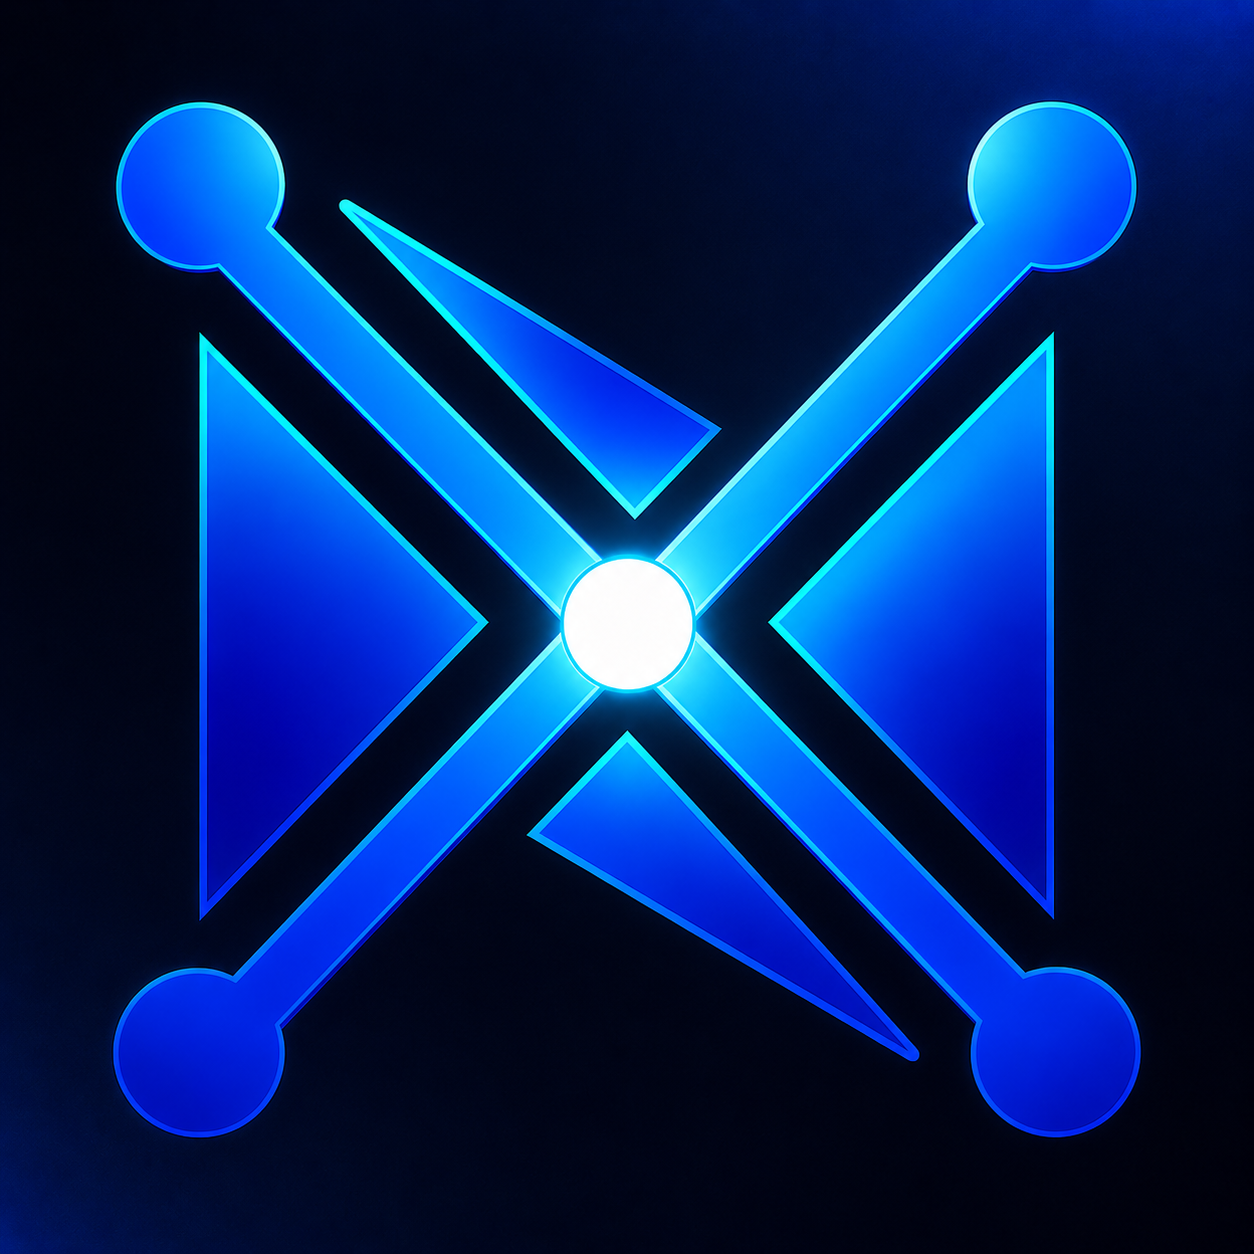
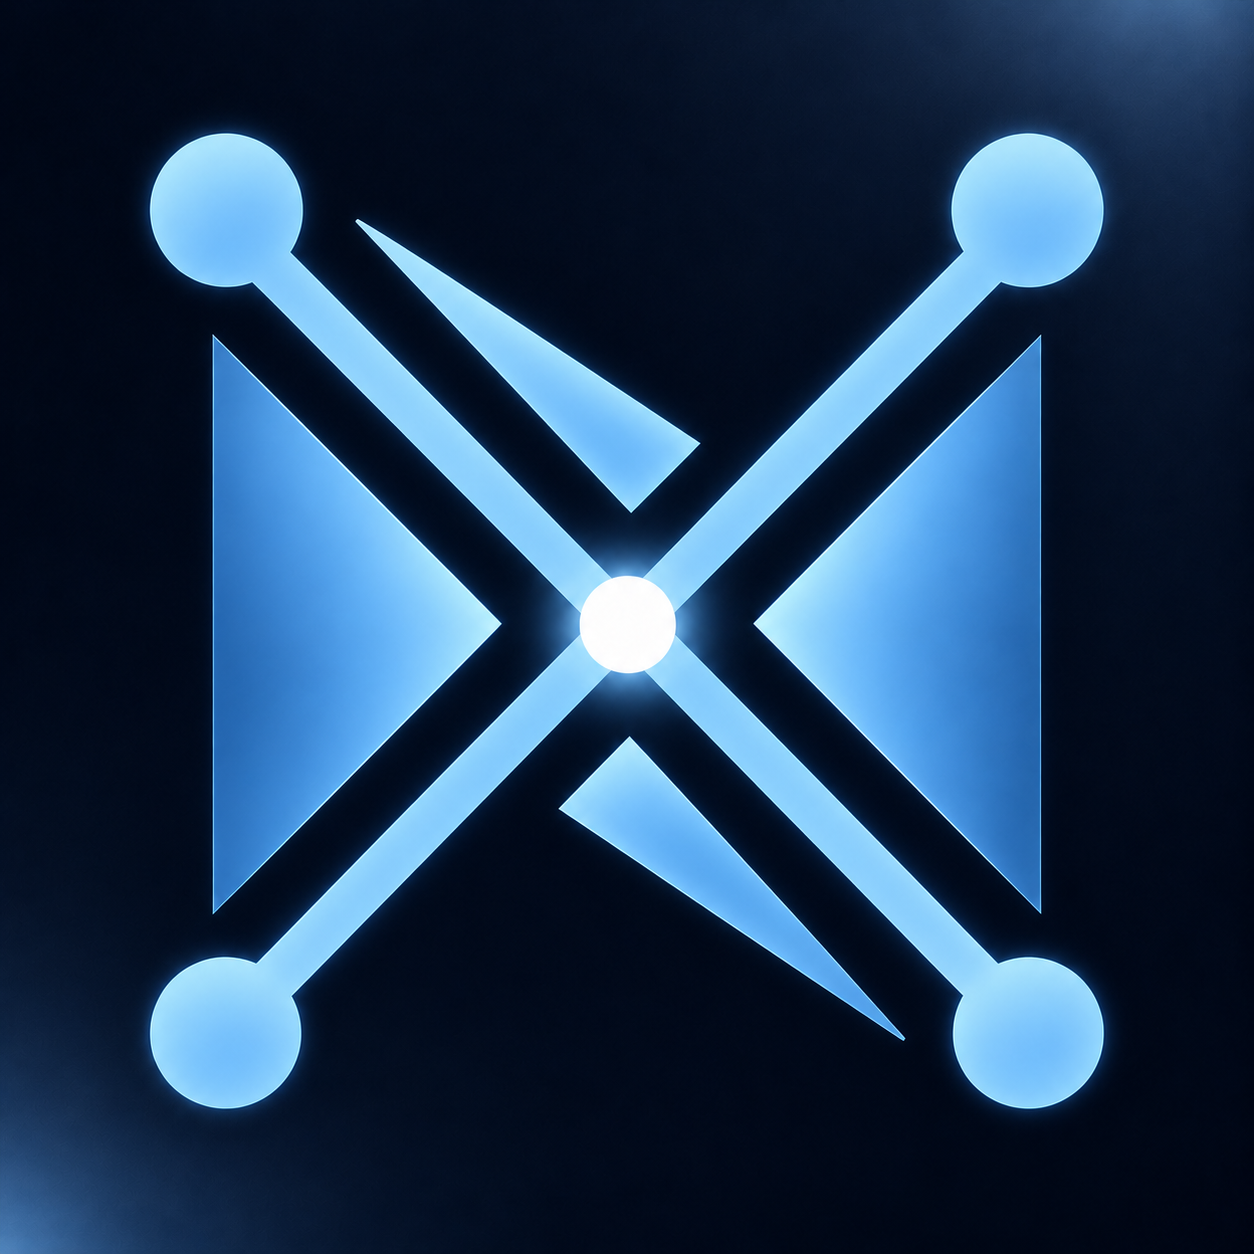
feat(portfolio): refresh overview and filters
Portfolio:
- Shorten the heading to Portfolio and highlight the six expertise domains in the introduction.
- Replace the three filter lists with one wrapping group of native buttons, selected checkmarks, pressed states, visible focus, and 44 px targets.
- Reduce the introduction-to-filter gap to 20 px and respect reduced motion during filtering.

Studio imagery:
- Copy the supplied pale-blue logo unchanged and add its content version to the image URL.
- Update the matching five-file manual upload set.

Tests:
- Static build resolves all local references.
- All nine categories pass at 320, 390, 768, and 1440 px in both themes with no overflow or browser/network errors.
- Keyboard Tab/Space/Enter, focus, reduced motion, and rapid animated switching pass.
- Selected-button text contrast is at least 5.06:1; exact source, build, and served image hashes match.

Known gaps:
- Production upload remains manual; no pipeline changes.

diff --git a/index.html b/index.html
@@ -542,7 +542,7 @@
                 <div class="col-lg-6">
                     <div class="nexusGuideCard">
                         <div class="nexus-main-header">
-                            <img src="content/portfolio/thumbnails/nexus-ai-studio.png" alt="Nexus AI Studio logo" class="nexus-main-logo">
+                            <img src="content/portfolio/thumbnails/nexus-ai-studio.png?v=55332f1243ef" alt="Nexus AI Studio logo" class="nexus-main-logo">
                             <div>
                                 <p class="nexus-eyebrow">Desktop App &middot; Local AI</p>
                                 <h3 class="nexus-product-title">Nexus AI Studio</h3>
@@ -587,32 +587,28 @@
 
             <div class="row">
 
-                <div class="heading text-center col-12 mb-5">
-                    <h2 class="section-title">DETAILED PORTFOLIO</h2>
-                    <p class="mt-3 section-intro-text">A curated collection of projects illustrating my expertise in Generative AI, Machine Learning, Data Science, Software Engineering, Computer Vision & Biomechanical Engineering.</p>
-                    <p class="mt-3 section-intro-text">Filter by domain to explore specific expertise.</p>
+                <div class="heading text-center col-12 portfolio-heading">
+                    <h2 class="section-title">PORTFOLIO</h2>
+                    <p class="mt-3 section-intro-text">A curated collection of projects illustrating my expertise in <strong>Generative AI</strong>, <strong>Machine Learning</strong>, <strong>Data Science</strong>, <strong>Software Engineering</strong>, <strong>Computer Vision</strong> &amp; <strong>Biomechanical Engineering</strong>.</p>
+                    <p class="portfolio-filter-hint">Filter by domain to explore specific expertise.</p>
                 </div>
 
-                <div class="filter col-12">
+                <div class="filter col-12" role="group" aria-label="Filter projects by expertise">
                     <ul class="filters">
-                        <li><a href="#" data-filter="*" class="current">ALL PROJECTS</a></li>
-                    </ul>
-                    <ul class="filters">
-                        <li><a href="#" data-filter=".gen-ai">GENERATIVE AI</a></li>
-                        <li><a href="#" data-filter=".dl">DEEP LEARNING</a></li>
-                        <li><a href="#" data-filter=".ml">MACHINE LEARNING</a></li>
-                        <li><a href="#" data-filter=".cv">COMPUTER VISION</a></li>
-                        <li><a href="#" data-filter=".ds">DATA SCIENCE</a></li>
-                        <li><a href="#" data-filter=".se">SOFTWARE ENGINEERING</a></li>
-                    </ul>
-                    <ul class="filters">
-                        <li><a href="#" data-filter=".bio-eng">BIOMECHANICAL ENGINEERING</a></li>
-                        <li><a href="#" data-filter=".pubs">PUBLICATIONS</a></li>
+                        <li><button type="button" data-filter="*" class="current" aria-pressed="true" aria-controls="portfolio-items">All projects</button></li>
+                        <li><button type="button" data-filter=".gen-ai" aria-pressed="false" aria-controls="portfolio-items">Generative AI</button></li>
+                        <li><button type="button" data-filter=".dl" aria-pressed="false" aria-controls="portfolio-items">Deep learning</button></li>
+                        <li><button type="button" data-filter=".ml" aria-pressed="false" aria-controls="portfolio-items">Machine learning</button></li>
+                        <li><button type="button" data-filter=".cv" aria-pressed="false" aria-controls="portfolio-items">Computer vision</button></li>
+                        <li><button type="button" data-filter=".ds" aria-pressed="false" aria-controls="portfolio-items">Data science</button></li>
+                        <li><button type="button" data-filter=".se" aria-pressed="false" aria-controls="portfolio-items">Software engineering</button></li>
+                        <li><button type="button" data-filter=".bio-eng" aria-pressed="false" aria-controls="portfolio-items">Biomechanical engineering</button></li>
+                        <li><button type="button" data-filter=".pubs" aria-pressed="false" aria-controls="portfolio-items">Publications</button></li>
                     </ul>
                 </div>
 
                 <div class="itemsContainer col-12">
-                    <ul class="items">
+                    <ul class="items" id="portfolio-items">
 
                         <!-- 2026: Nexus TV Launcher -->
                         <li class="se content-card">

diff --git a/css/style_modern.css b/css/style_modern.css
@@ -571,30 +571,6 @@ body.dark-mode .nexus-path li {
     }
 }
 /* --- Portfolio --- */
-.filter a {
-    color: var(--text-color);
-    border: 1px solid var(--text-color);
-    padding: 10px 18px;
-    display: inline-block;
-    margin: 5px;
-    text-decoration: none;
-    font-size: 12px;
-    font-weight: 600;
-    text-transform: uppercase;
-}
-
-.filter a:hover,
-.filter .current {
-    background-color: rgba(37, 116, 169, 0.14);
-    color: var(--text-color);
-    border-color: rgba(37, 116, 169, 0.55);
-}
-
-body.dark-mode .filter a {
-    color: var(--site-text-on-image);
-    border-color: var(--site-text-on-image);
-}
-
 /* Grid & Cards */
 /* Grid & Cards */
 .itemsContainer {
@@ -689,64 +665,102 @@ body.dark-mode .card-image-container {
     background: #2b2b2b;
 }
 
-/* Filters Modernization */
-.filter {
-    text-align: center;
-    margin-bottom: 40px;
+/* Portfolio filters */
+#portfolio .portfolio-heading {
+    padding-bottom: 20px;
 }
 
-#filters {
-    padding: 0;
-    list-style: none;
+#portfolio .portfolio-heading .section-intro-text strong {
+    color: var(--primary-color);
+    font-weight: 700;
+}
+
+#portfolio .portfolio-heading .portfolio-filter-hint {
+    font-size: 16px;
+    line-height: 1.5;
+    margin: 12px 0 0;
+}
+
+.filter {
+    margin-bottom: 24px;
+    text-align: center;
+}
+
+.filters {
     display: flex;
-    justify-content: center;
     flex-wrap: wrap;
-    gap: 10px;
+    gap: 8px;
+    justify-content: center;
+    list-style: none;
+    margin: 0;
+    padding: 0;
 }
 
 .filters li {
-    display: inline-block;
+    display: block;
+    margin: 0;
 }
 
-.filters a {
-    display: inline-block;
-    padding: 8px 20px;
-    border-radius: 50px;
-    text-decoration: none;
-    font-size: 13px;
-    font-weight: 600;
-    text-transform: uppercase;
-    letter-spacing: 0.5px;
-    color: var(--text-color);
+.filters button {
+    align-items: center;
+    background: var(--card-bg);
     border: 1px solid var(--hover-color);
-    transition: all 0.3s ease;
-}
-
-.filters a:hover {
-    background-color: rgba(37, 116, 169, 0.14);
+    border-radius: 8px;
     color: var(--text-color);
-    border-color: rgba(37, 116, 169, 0.55);
+    cursor: pointer;
+    display: inline-flex;
+    font-family: inherit;
+    font-size: 14px;
+    font-weight: 600;
+    gap: 8px;
+    justify-content: center;
+    letter-spacing: 0;
+    line-height: 1.4;
+    min-height: 44px;
+    padding: 10px 14px;
+    transition: background-color 0.15s ease, border-color 0.15s ease, color 0.15s ease;
 }
 
-.filters a.current {
-    background-color: rgba(37, 116, 169, 0.14);
-    color: var(--text-color);
-    border-color: rgba(37, 116, 169, 0.55);
-    box-shadow: 0 4px 6px rgba(0, 0, 0, 0.1);
+.filters button::before {
+    border: solid currentColor;
+    border-width: 0 2px 2px 0;
+    content: "";
+    height: 10px;
+    transform: rotate(45deg);
+    visibility: hidden;
+    width: 6px;
 }
 
-body.dark-mode .filters a {
-    color: var(--text-color);
-    border-color: #555;
+.filters button:hover {
+    background: var(--bg-color);
+    border-color: var(--primary-color);
 }
 
-body.dark-mode .filters a:hover,
-body.dark-mode .filters a.current {
-    background-color: rgba(45, 212, 191, 0.14);
-    border-color: rgba(45, 212, 191, 0.68);
-    color: var(--text-color);
+.filters button:focus-visible {
+    outline: 2px solid var(--primary-color);
+    outline-offset: 3px;
 }
 
+.filters button.current {
+    background: var(--primary-color);
+    border-color: var(--primary-color);
+    color: var(--site-text-on-accent);
+    font-weight: 700;
+}
+
+.filters button.current::before {
+    visibility: visible;
+}
+
+body.dark-mode .filters button.current {
+    color: var(--site-text-control-ink);
+}
+
+@media (prefers-reduced-motion: reduce) {
+    .filters button {
+        transition: none;
+    }
+}
 
 .card-overlay {
     position: absolute;

diff --git a/js/script.js b/js/script.js
@@ -23,29 +23,30 @@ $(window).on("load", function () {
     });
 
     // Simple Filtering for CSS Grid Portfolio
-    $(".filters a").click(function (e) {
-        e.preventDefault();
+    $(".filters button").click(function () {
 
-        $(".filters .current").removeClass("current");
-        $(this).addClass("current");
+        $(".filters button").removeClass("current").attr("aria-pressed", "false");
+        $(this).addClass("current").attr("aria-pressed", "true");
 
         var selector = $(this).attr("data-filter");
         var $itemsContainer = $(".items");
+        var duration = window.matchMedia("(prefers-reduced-motion: reduce)").matches ? 0 : 200;
+        $itemsContainer.children("li").stop(true, true);
 
         // Lock the height to prevent scroll jumping
         $itemsContainer.css("min-height", $itemsContainer.height());
 
         if (selector === '*') {
-            $itemsContainer.children("li").show(300);
+            $itemsContainer.children("li").show(duration);
         } else {
-            $itemsContainer.children("li").not(selector).hide(300);
-            $itemsContainer.children("li").filter(selector).show(300);
+            $itemsContainer.children("li").not(selector).hide(duration);
+            $itemsContainer.children("li").filter(selector).show(duration);
         }
 
         // Release the height lock after animation
         setTimeout(function () {
             $itemsContainer.css("min-height", "0");
-        }, 350);
+        }, duration + 50);
 
         return false;
     });

diff --git a/docs/todos.md b/docs/todos.md
@@ -2,6 +2,8 @@
 
 ## Dashboard
 
+- Portfolio overview: shortened title, highlighted domains, compact accessible filters, and 20 px filter gap verified
+- Studio logo: supplied pale-blue original copied unchanged and linked with a content-based cache version
 - Nexus product section and updated profile assets: implemented and browser verified; production publication pending
 - Nexus deployment repair: canonical section address, content-versioned browser files, and upload-file audit implemented
 - Repository root cleanup: ten obsolete files removed; all 247 deployment files verified byte-identical
@@ -83,6 +85,15 @@
 - [x] Highlight local models for text, image, video, and audio generation in the Local AI segment.
 - [x] Apply the requested expert-level agentic workflow sentence and advanced Nexus Hub skills, guardrails, and standardized workflow description.
 - [x] Verify exact descriptions, bold generation types, wrapping, text overlap, desktop button alignment, and browser integrity on desktop and phones in both themes.
+- CI impact: no pipeline changes; existing build and local browser checks.
+
+## Portfolio Controls and Studio Logo [DONE]
+
+- [x] Replace the Studio image with the supplied pale-blue original, verify exact source/build/served hashes, and version its URL to refresh cached images.
+- [x] Rename Detailed Portfolio to Portfolio and highlight all six expertise domains in the first subtitle sentence.
+- [x] Use one wrapping group of native filter buttons with the existing typography and theme colors, 8 px gaps and corners, a selected checkmark, 44 px targets, and 20 px between the hint and filters.
+- [x] Preserve all nine category mappings and verify keyboard Tab/Space/Enter, pressed state, visible focus, reduced-motion behavior, and rapid animated switching.
+- [x] Verify layouts at 320, 390, 768, and 1440 px in both themes with no overflow, page errors, or HTTP failures; selected-button text contrast is at least 5.06:1.
 - CI impact: no pipeline changes; existing build and local browser checks.
 
 ## Nexus TV Launcher Portfolio [DONE]

diff --git a/docs/guides/manual-upload.md b/docs/guides/manual-upload.md
@@ -38,9 +38,9 @@ The ten obsolete files were removed after confirming their only remaining refere
 
 The canonical section address is `https://www.benjamindourthe.com/#nexus`. Existing `#featured-projects` bookmarks are converted to `#nexus` by the home-page script. After uploading, verify the two product buttons, normal feature-list wrapping, and the Studio logo. For a browser that still shows an older page, press `Ctrl+F5` once to reload its HTML and linked files.
 
-## Nexus Upload Set
+## Current Upload Set
 
-Upload these four files from the freshly built `dist/` folder together. Their destination paths are relative to `/benjamindourthe.com/htdocs/`.
+Upload these five files from the freshly built `dist/` folder together. Their destination paths are relative to `/benjamindourthe.com/htdocs/`.
 
 | Local path under `dist/` | Hosted path |
 | --- | --- |
@@ -48,5 +48,6 @@ Upload these four files from the freshly built `dist/` folder together. Their de
 | `skills.html` | `skills.html` |
 | `css/style_modern.css` | `css/style_modern.css` |
 | `js/script.js` | `js/script.js` |
+| `content/portfolio/thumbnails/nexus-ai-studio.png` | `content/portfolio/thumbnails/nexus-ai-studio.png` |
 
 The November 19 live check still returned an older home page containing `href="#featured-projects"`, `id="featured-projects"`, and unversioned browser files, including on a fresh HTML request. The local upload page contains `href="#nexus"`, `id="nexus"`, two introduction columns on desktop, the Studio label "Desktop App · Local AI", and a new-tab Nexus Hub button. After uploading, viewing the home-page source should show `href="#nexus"` and a `?v=` value on the stylesheet and script links. If the source still contains the old address, the server is returning the older HTML; changing browser layout settings will not replace that file.
